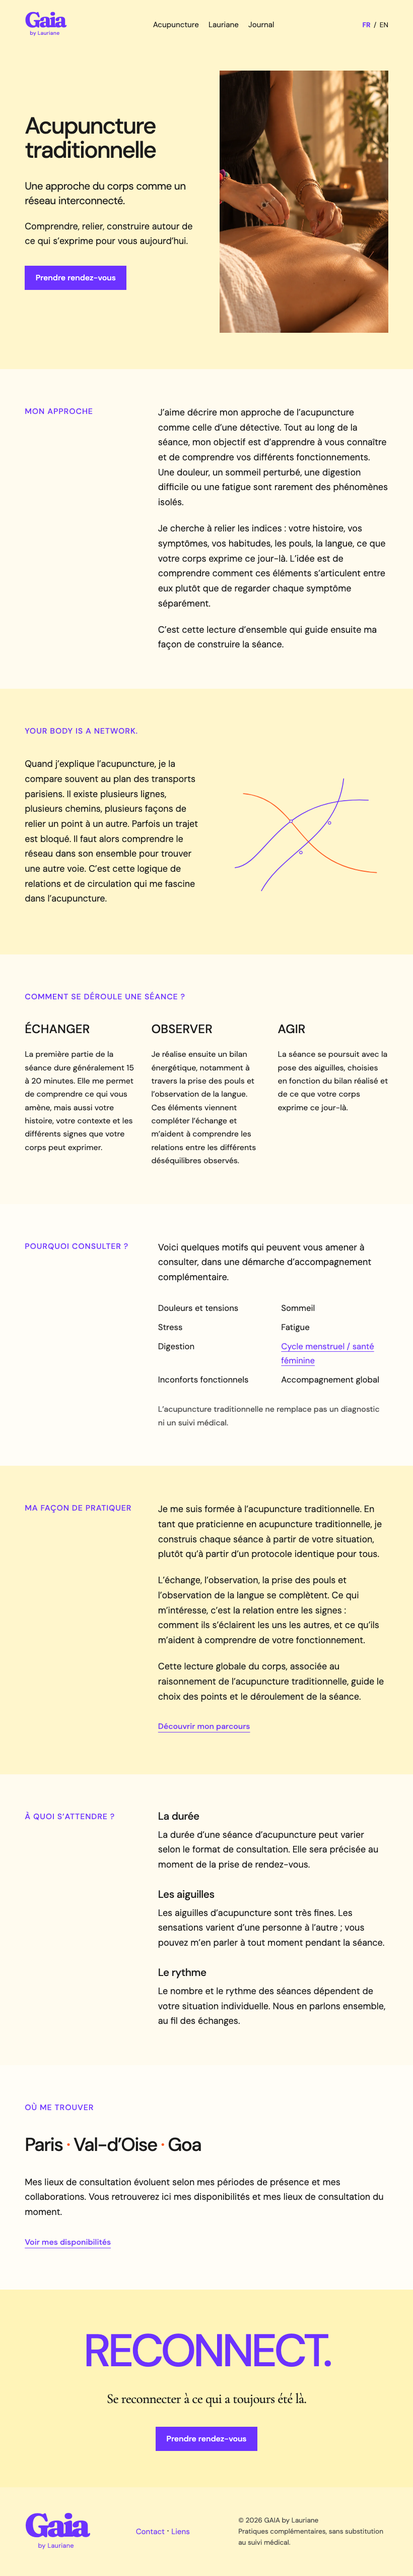
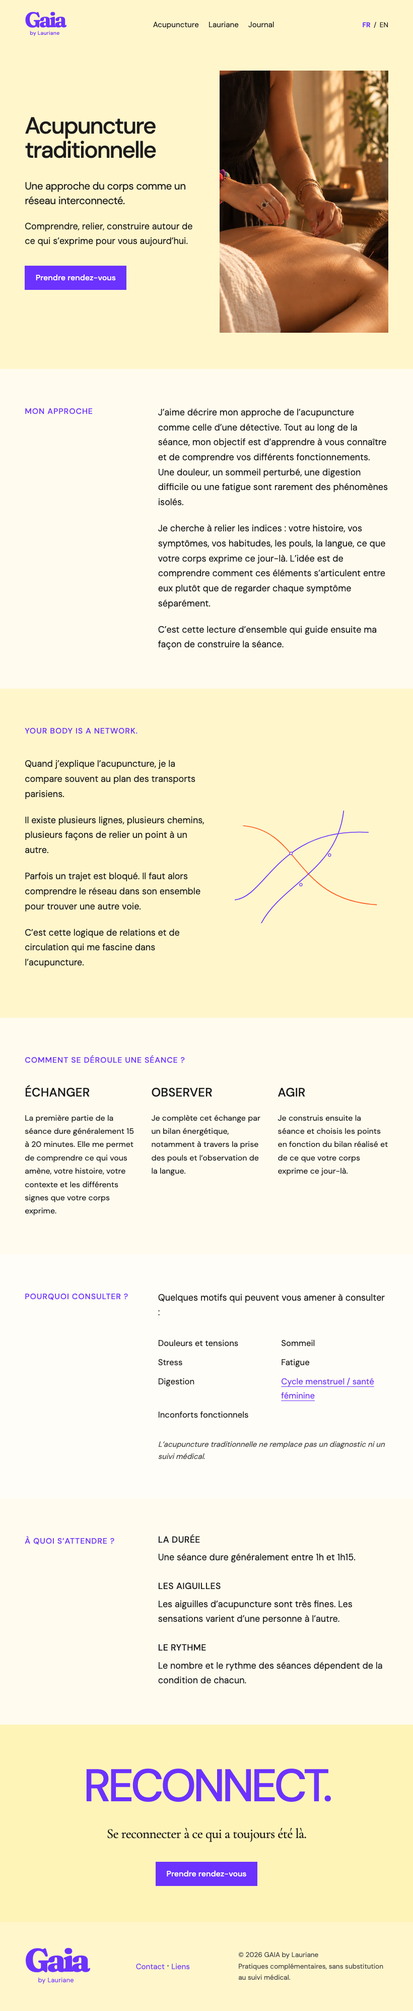
Update Site source

diff --git a/src/styles/global.css b/src/styles/global.css
@@ -7,6 +7,8 @@
 @media(max-width:700px){body{font-size:17px}.header{height:80px;gap:1rem}.mini-logo{font-size:2.2rem}.desktop-nav{display:none}.header-actions{margin-left:auto}.mobile-nav{display:block}.mobile-nav summary{list-style:none;font-size:.9rem;min-height:44px;display:flex;align-items:center;gap:.7rem;cursor:pointer}.mobile-nav summary::-webkit-details-marker{display:none}.mobile-nav nav{position:absolute;left:0;right:0;top:80px;background:var(--butter);padding:1rem var(--gutter) 2rem;display:grid;gap:.5rem}.mobile-nav nav a{padding:.6rem 0}.hero{height:auto;min-height:0;display:block}.hero-copy{width:auto;margin:0;padding:2rem var(--gutter) 2rem}.wordmark{font-size:clamp(7.5rem,33vw,11rem)}.byline{margin:.7rem 0 1.6rem .6rem;font-size:.95rem}.hero h1{font-size:clamp(2rem,8.2vw,3rem);margin-bottom:1.4rem}.hero-details p{font-size:1rem;max-width:35ch}.hero-photo{position:relative;width:100%;height:430px;mask-image:linear-gradient(to bottom,transparent,rgba(0,0,0,.08) 5%,rgba(0,0,0,.4) 12%,rgba(0,0,0,.8) 20%,black 30%);margin-top:-1.5rem}.hero-photo img{object-position:50% 43%}.section{padding-top:3.5rem;padding-bottom:3.5rem}.eyebrow{margin-bottom:1.8rem;font-size:.94rem;letter-spacing:.045em}.split{grid-template-columns:1fr;gap:2rem}h2{font-size:clamp(2.6rem,10vw,4rem)}.manifesto-copy{font-size:1.35rem}.manifesto-copy .separated{margin-top:2rem}.lead{font-size:1.2rem}.map{width:100%;max-width:420px}.practice-grid{grid-template-columns:1fr;gap:2.5rem;margin-top:2rem}.practice h3{font-size:1.8rem;min-height:0;margin:0 0 .8rem;max-width:none}.practice p{max-width:38ch;margin-bottom:.5rem}.women{grid-template-columns:1fr;gap:2.5rem}.women-photo{height:auto;aspect-ratio:2/3;width:100%;max-width:400px;margin:auto;grid-row:2}.about .split{grid-template-columns:1fr;gap:2.5rem}.editorial-collage{max-width:500px;gap:1.5rem}.story-statement{font-size:2.2rem}.power{grid-template-columns:1fr;gap:2rem}.gaia-symbol{width:72%;max-width:320px}.locations-title{font-size:clamp(2rem,8.2vw,3rem);line-height:1.3}.final-cta h2{font-size:clamp(2.6rem,12.5vw,5rem)}footer{align-items:start;flex-direction:column;padding-top:2.5rem;padding-bottom:2.5rem}.inner h1{font-size:3rem}}
 
 /* French acupuncture page: uses the shared GAIA tokens and components. */
-.acupuncture-hero{display:grid;grid-template-columns:1.05fr 1fr;gap:7%;align-items:center;padding-top:2.5rem;padding-bottom:4.5rem;min-height:680px}.acupuncture-hero h1{font-size:clamp(3rem,5.7vw,6rem);max-width:15ch;line-height:1.06;margin-bottom:2rem}.acupuncture-subtitle{font-size:clamp(1.3rem,2vw,1.9rem);line-height:1.4;letter-spacing:-.025em;max-width:28ch}.acupuncture-hero-copy>p:not(.acupuncture-subtitle){max-width:39ch}.acupuncture-hero .button{margin-top:.7rem}.acupuncture-hero-photo{height:610px;max-height:70svh}.acupuncture-hero-photo img{height:100%;object-fit:cover;object-position:50% 55%}.acupuncture-editorial{display:grid;grid-template-columns:.75fr 1.6fr;gap:8%}.acupuncture-editorial>div{max-width:66ch}.acupuncture-editorial p:last-child{margin-bottom:0}.acupuncture-approach,.acupuncture-session{background:var(--soft)}.acupuncture-network{background:var(--butter)}.acupuncture-network .split{align-items:center}.acupuncture-network .map{max-width:430px;justify-self:center;width:100%}.session-steps{display:grid;grid-template-columns:repeat(3,1fr);gap:3.5rem}.session-steps h3{text-transform:uppercase;font-size:1.5rem;letter-spacing:.01em;color:var(--ink);margin-bottom:1.5rem}.session-steps p{font-size:1.05rem;margin-bottom:0}.acupuncture-reasons{background:var(--white)}.consultation-reasons{list-style:none;padding:0;margin:2rem 0;display:grid;grid-template-columns:1fr 1fr;gap:.65rem 2rem;font-size:1.05rem}.consultation-reasons a{color:var(--violet);text-decoration:underline;text-underline-offset:4px}.care-note{font-size:1rem;color:var(--muted);max-width:52ch}.acupuncture-practice{background:var(--butter)}.acupuncture-expectations{background:var(--soft)}.expectation-list{display:grid;gap:2rem}.expectation-list h3{font-size:1.3rem;margin-bottom:.7rem;letter-spacing:-.02em}.acupuncture-page .locations{background:var(--white)}
+.acupuncture-hero{display:grid;grid-template-columns:1.05fr 1fr;gap:7%;align-items:center;padding-top:2.5rem;padding-bottom:4.5rem;min-height:680px}.acupuncture-hero h1{font-size:clamp(3rem,5.7vw,6rem);max-width:15ch;line-height:1.06;margin-bottom:2rem}.acupuncture-subtitle{font-size:clamp(1.3rem,2vw,1.9rem);line-height:1.4;letter-spacing:-.025em;max-width:28ch}.acupuncture-hero-copy>p:not(.acupuncture-subtitle){max-width:39ch}.acupuncture-hero .button{margin-top:.7rem}.acupuncture-hero-photo{height:610px;max-height:70svh}.acupuncture-hero-photo img{height:100%;object-fit:cover;object-position:50% 55%}.acupuncture-editorial{display:grid;grid-template-columns:.75fr 1.6fr;gap:8%}.acupuncture-editorial>div{max-width:66ch}.acupuncture-editorial p:last-child{margin-bottom:0}.acupuncture-approach,.acupuncture-session{background:var(--soft)}.acupuncture-network{background:var(--butter)}.acupuncture-network .split{align-items:center}.acupuncture-network .map{max-width:430px;justify-self:center;width:100%}.session-steps{display:grid;grid-template-columns:repeat(3,1fr);gap:3.5rem}.session-steps h3{text-transform:uppercase;font-size:1.5rem;letter-spacing:.01em;color:var(--ink);margin-bottom:1.5rem}.session-steps p{font-size:1.05rem;margin-bottom:0}.acupuncture-reasons{background:var(--white)}.consultation-reasons{list-style:none;padding:0;margin:2rem 0;display:grid;grid-template-columns:1fr 1fr;gap:.65rem 2rem;font-size:1.05rem}.consultation-reasons a{color:var(--violet);text-decoration:underline;text-underline-offset:4px}.care-note{font-size:1rem;color:var(--muted);max-width:52ch}.acupuncture-expectations{background:var(--soft)}.expectation-list{display:grid;gap:2rem}.expectation-list h3{font-size:1.3rem;margin-bottom:.7rem;letter-spacing:-.02em}
 @media(max-width:1050px){.acupuncture-hero{gap:5%;min-height:570px}.acupuncture-hero h1{font-size:clamp(2.7rem,5.6vw,4rem)}.acupuncture-hero-photo{height:520px}.acupuncture-editorial{grid-template-columns:.8fr 1.6fr;gap:5%}.session-steps{gap:2rem}.session-steps p{font-size:1rem}}
 @media(max-width:700px){.acupuncture-hero{grid-template-columns:1fr;gap:2.5rem;padding-top:2rem;padding-bottom:3.5rem;min-height:0}.acupuncture-hero h1{font-size:clamp(2.55rem,10.4vw,3.9rem);margin-bottom:1.5rem;overflow-wrap:normal}.acupuncture-subtitle{font-size:1.4rem;max-width:28ch}.acupuncture-hero-photo{height:auto;max-height:none;aspect-ratio:5/6}.acupuncture-hero-photo img{object-position:50% 55%}.acupuncture-editorial{grid-template-columns:1fr;gap:0}.session-steps{grid-template-columns:1fr;gap:2.5rem}.session-steps h3{font-size:1.3rem;margin-bottom:1rem}.session-steps p{font-size:1.0625rem}.consultation-reasons{grid-template-columns:1fr;gap:.7rem;margin:1.8rem 0}.care-note{font-size:1rem}.expectation-list{gap:2rem}}
+
+.acupuncture-page .care-note{font-size:.9375rem;line-height:1.6}.acupuncture-page .care-note em{color:var(--muted);font-style:italic}.acupuncture-page .expectation-list h3{text-transform:uppercase;font-size:1.1rem;letter-spacing:.025em}

diff --git a/src/data/acupuncture-fr.ts b/src/data/acupuncture-fr.ts
@@ -7,24 +7,23 @@ export const acupunctureFr = {
  'Je cherche à relier les indices : votre histoire, vos symptômes, vos habitudes, les pouls, la langue, ce que votre corps exprime ce jour-là. L’idée est de comprendre comment ces éléments s’articulent entre eux plutôt que de regarder chaque symptôme séparément.',
  'C’est cette lecture d’ensemble qui guide ensuite ma façon de construire la séance.'
  ],
- network:'Quand j’explique l’acupuncture, je la compare souvent au plan des transports parisiens. Il existe plusieurs lignes, plusieurs chemins, plusieurs façons de relier un point à un autre. Parfois un trajet est bloqué. Il faut alors comprendre le réseau dans son ensemble pour trouver une autre voie. C’est cette logique de relations et de circulation qui me fascine dans l’acupuncture.',
+ network:[
+ 'Quand j’explique l’acupuncture, je la compare souvent au plan des transports parisiens.',
+ 'Il existe plusieurs lignes, plusieurs chemins, plusieurs façons de relier un point à un autre.',
+ 'Parfois un trajet est bloqué. Il faut alors comprendre le réseau dans son ensemble pour trouver une autre voie.',
+ 'C’est cette logique de relations et de circulation qui me fascine dans l’acupuncture.'
+ ],
  steps:[
- {title:'Échanger',copy:'La première partie de la séance dure généralement 15 à 20 minutes. Elle me permet de comprendre ce qui vous amène, mais aussi votre histoire, votre contexte et les différents signes que votre corps peut exprimer.'},
- {title:'Observer',copy:'Je réalise ensuite un bilan énergétique, notamment à travers la prise des pouls et l’observation de la langue. Ces éléments viennent compléter l’échange et m’aident à comprendre les relations entre les différents déséquilibres observés.'},
- {title:'Agir',copy:'La séance se poursuit avec la pose des aiguilles, choisies en fonction du bilan réalisé et de ce que votre corps exprime ce jour-là.'}
+ {title:'Échanger',copy:'La première partie de la séance dure généralement 15 à 20 minutes. Elle me permet de comprendre ce qui vous amène, votre histoire, votre contexte et les différents signes que votre corps exprime.'},
+ {title:'Observer',copy:'Je complète cet échange par un bilan énergétique, notamment à travers la prise des pouls et l’observation de la langue.'},
+ {title:'Agir',copy:'Je construis ensuite la séance et choisis les points en fonction du bilan réalisé et de ce que votre corps exprime ce jour-là.'}
  ],
- reasons:['Douleurs et tensions','Sommeil','Stress','Fatigue','Digestion','Cycle menstruel / santé féminine','Inconforts fonctionnels','Accompagnement global'],
- reasonsIntro:'Voici quelques motifs qui peuvent vous amener à consulter, dans une démarche d’accompagnement complémentaire.',
+ reasons:['Douleurs et tensions','Sommeil','Stress','Fatigue','Digestion','Cycle menstruel / santé féminine','Inconforts fonctionnels'],
+ reasonsIntro:'Quelques motifs qui peuvent vous amener à consulter :',
  careNote:'L’acupuncture traditionnelle ne remplace pas un diagnostic ni un suivi médical.',
- practice:[
- 'Je me suis formée à l’acupuncture traditionnelle. En tant que praticienne en acupuncture traditionnelle, je construis chaque séance à partir de votre situation, plutôt qu’à partir d’un protocole identique pour tous.',
- 'L’échange, l’observation, la prise des pouls et l’observation de la langue se complètent. Ce qui m’intéresse, c’est la relation entre les signes : comment ils s’éclairent les uns les autres, et ce qu’ils m’aident à comprendre de votre fonctionnement.',
- 'Cette lecture globale du corps, associée au raisonnement de l’acupuncture traditionnelle, guide le choix des points et le déroulement de la séance.'
- ],
  expectations:[
- {title:'La durée',copy:'La durée d’une séance d’acupuncture peut varier selon le format de consultation. Elle sera précisée au moment de la prise de rendez-vous.'},
- {title:'Les aiguilles',copy:'Les aiguilles d’acupuncture sont très fines. Les sensations varient d’une personne à l’autre ; vous pouvez m’en parler à tout moment pendant la séance.'},
- {title:'Le rythme',copy:'Le nombre et le rythme des séances dépendent de votre situation individuelle. Nous en parlons ensemble, au fil des échanges.'}
- ],
- locations:'Mes lieux de consultation évoluent selon mes périodes de présence et mes collaborations. Vous retrouverez ici mes disponibilités et mes lieux de consultation du moment.'
+ {title:'La durée',copy:'Une séance dure généralement entre 1h et 1h15.'},
+ {title:'Les aiguilles',copy:'Les aiguilles d’acupuncture sont très fines. Les sensations varient d’une personne à l’autre.'},
+ {title:'Le rythme',copy:'Le nombre et le rythme des séances dépendent de la condition de chacun.'}
+ ]
 };
